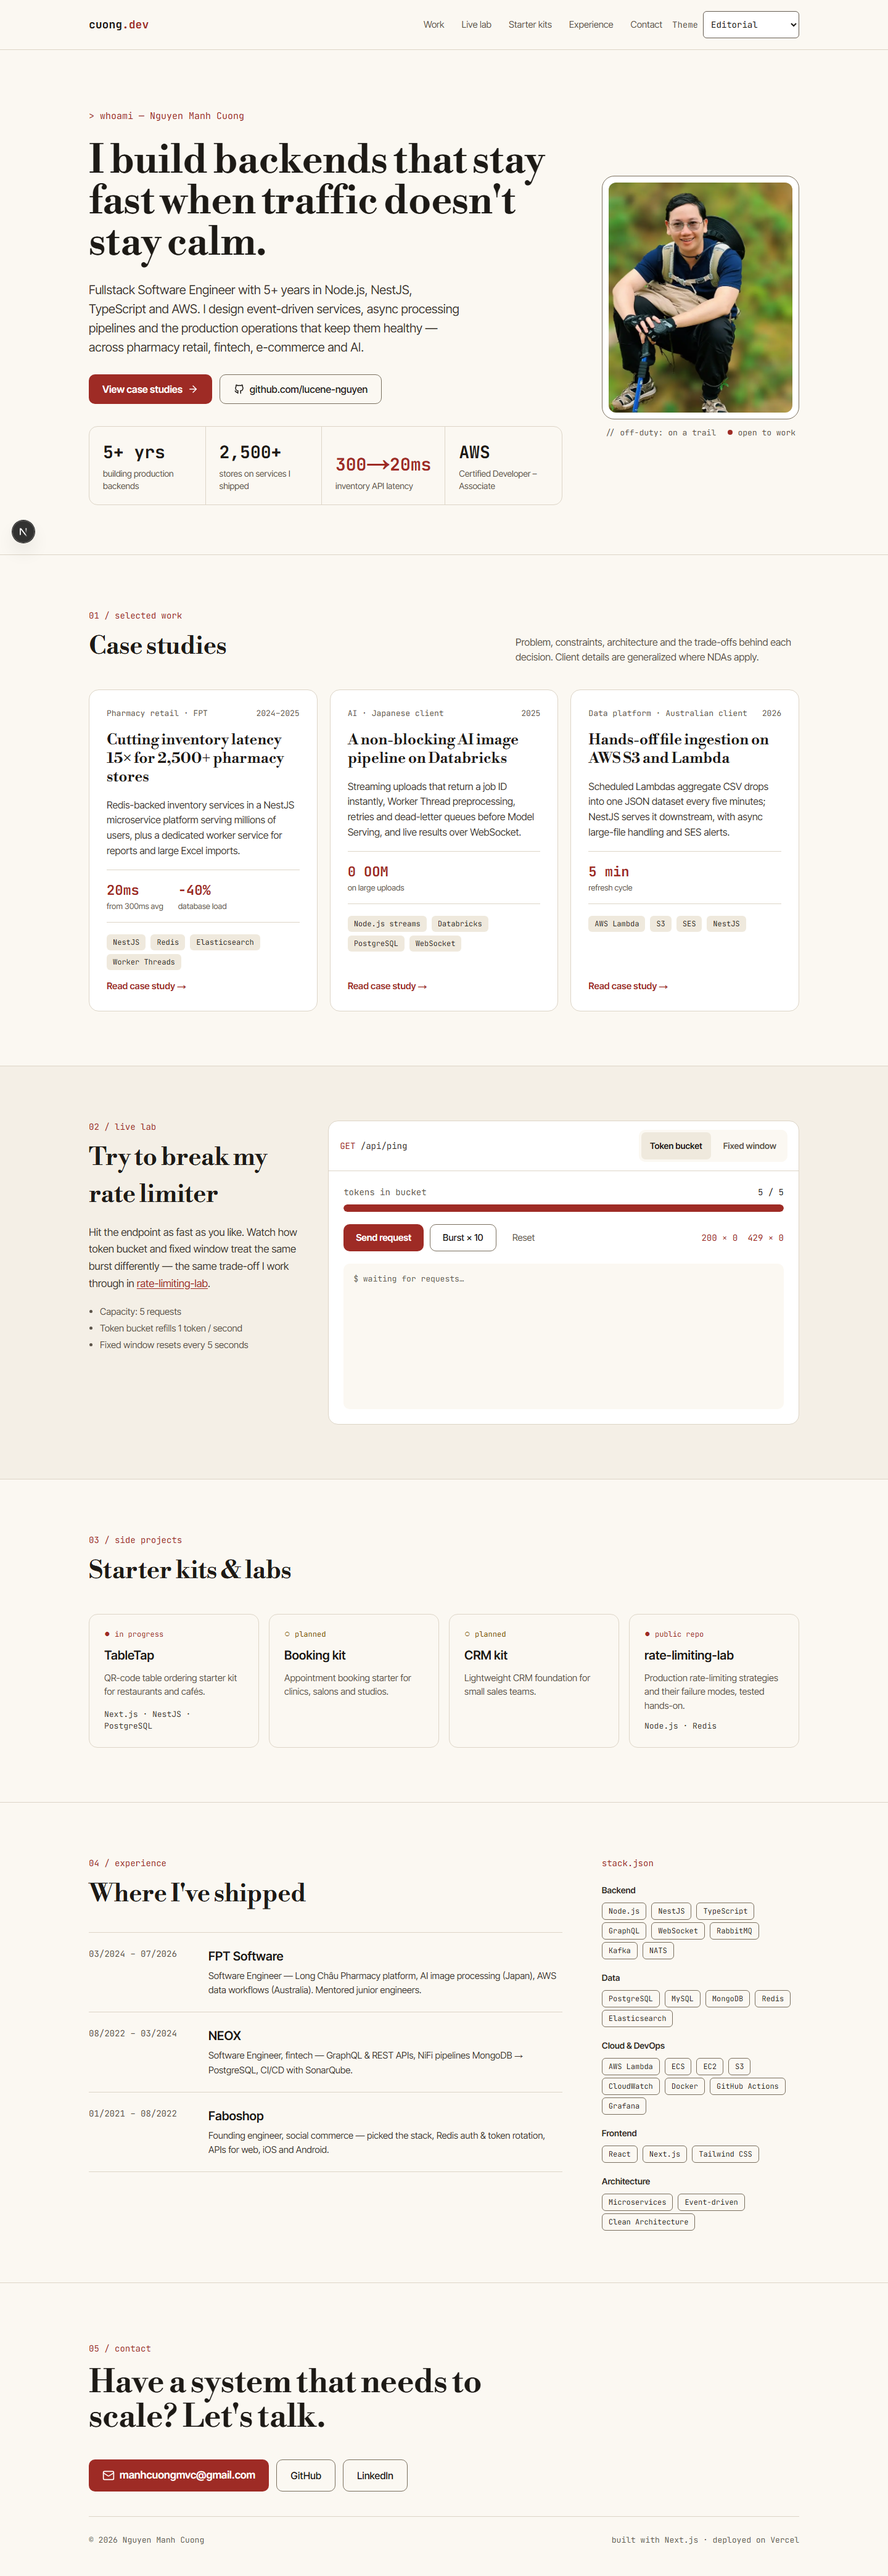
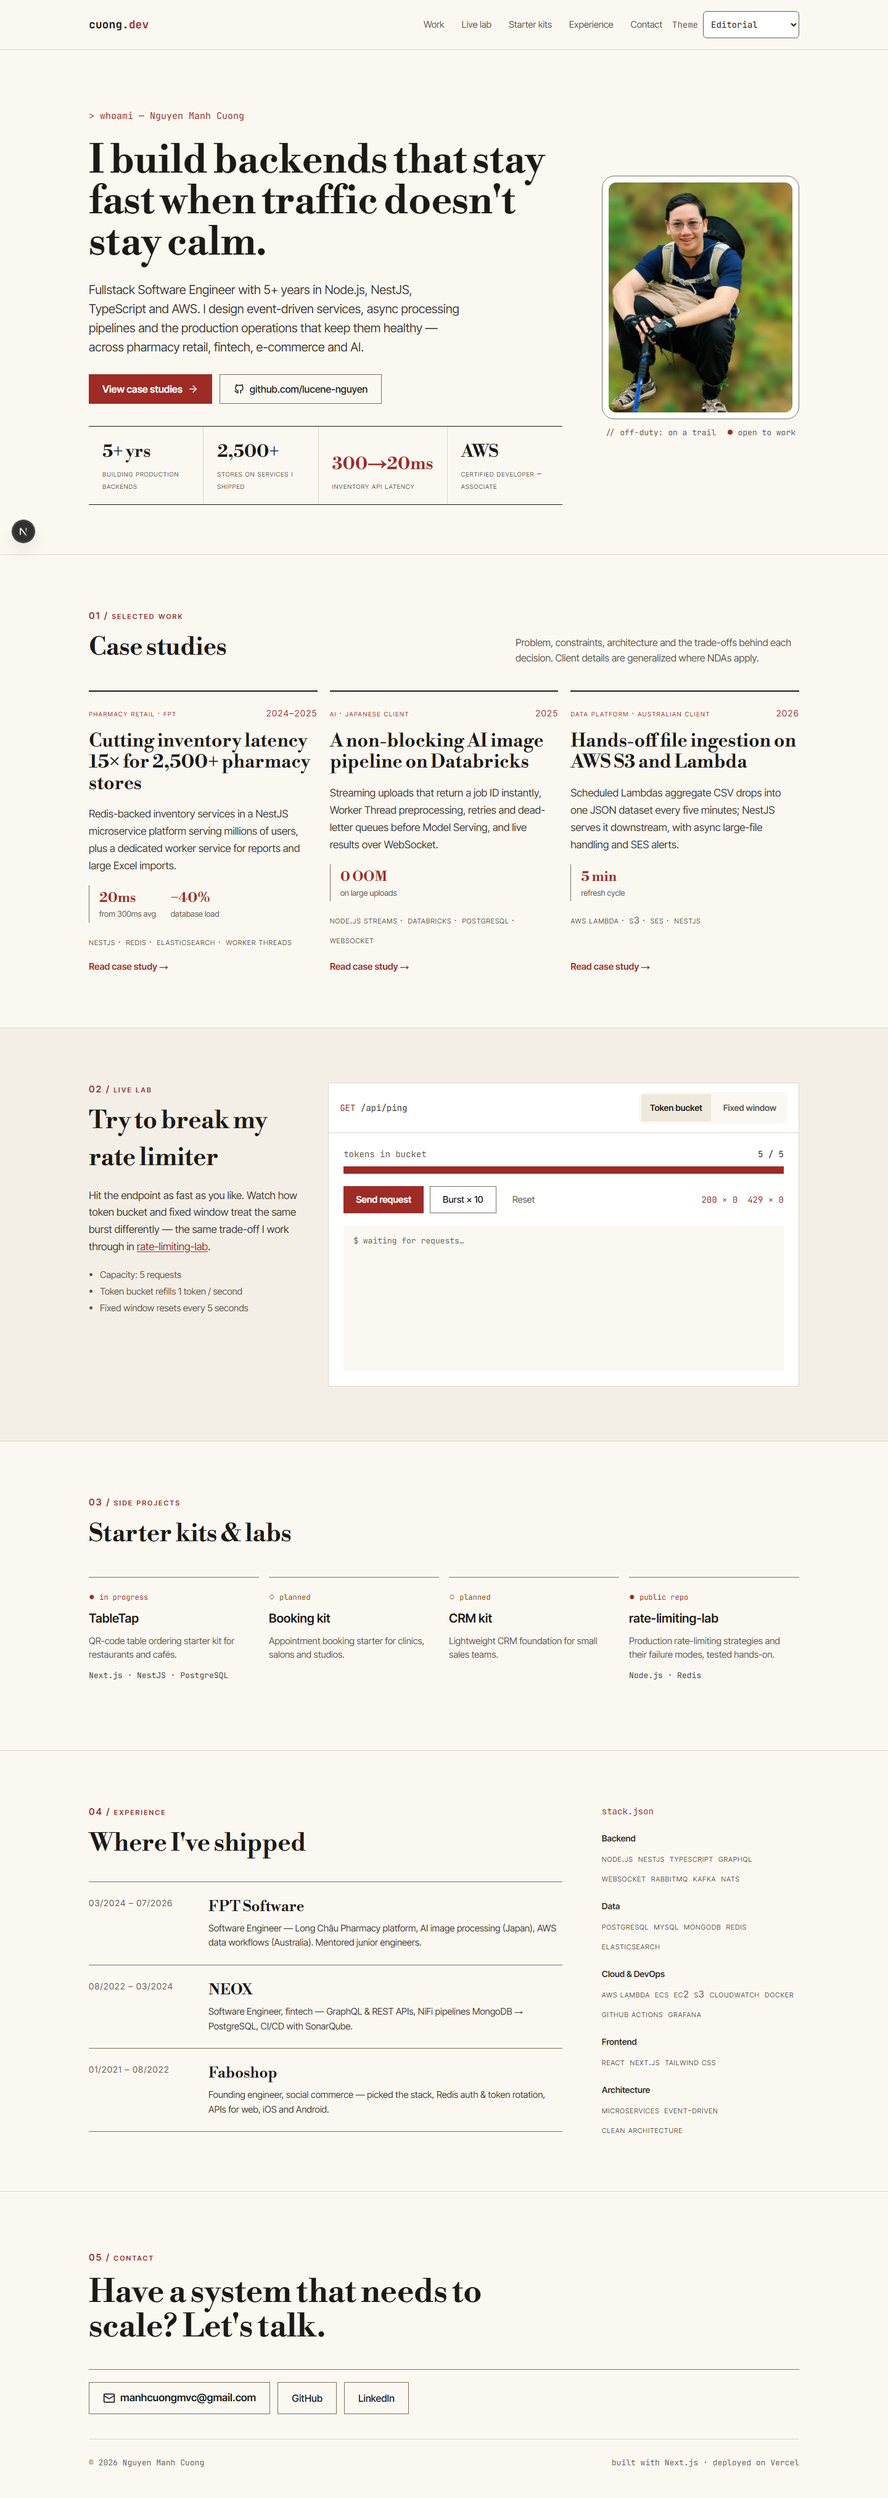
fix(ui): editorial review fixes - outlined sign-off, middot tags, scoped rules; screenshots; progress

diff --git a/themes/editorial/editorial.css b/themes/editorial/editorial.css
@@ -24,13 +24,14 @@
 }
 
 /* Case studies: feature teasers, no boxes. */
+/* Unlayered theme CSS beats Tailwind's layered utilities: no !important needed. */
 [data-theme="editorial"] [data-part="case-card"] {
-  padding: 24px 0 0 !important;
-  border: 0 !important;
-  border-top: 2px solid var(--text) !important;
-  border-radius: 0 !important;
-  background: transparent !important;
-  box-shadow: none !important;
+  padding: 24px 0 0;
+  border: 0;
+  border-top: 2px solid var(--text);
+  border-radius: 0;
+  background: transparent;
+  box-shadow: none;
 }
 [data-theme="editorial"] [data-part="case-meta"] {
   font-family: var(--font-sans);
@@ -111,12 +112,25 @@
 [data-theme="editorial"] [data-part="button"] {
   border-radius: 0;
 }
+/* Sign-off: understated outlined actions (the hero keeps its filled primary CTA). */
+[data-theme="editorial"] [data-part="contact-actions"] [data-part="button"] {
+  background: transparent;
+  color: var(--text);
+  border: 1px solid var(--border-strong);
+}
+[data-theme="editorial"] [data-part="contact-actions"] [data-part="button"]:hover {
+  background: var(--surface-2);
+}
+/* Tags read as an inline list: middot separators (decorative). */
+[data-theme="editorial"] [data-part="case-card"] ul li:not(:last-child) span::after {
+  content: " ·" / "";
+}
 [data-theme="editorial"] [data-part="kit"] > * {
   border: 0;
   border-top: 1px solid var(--border-strong);
   border-radius: 0;
   padding-inline: 0;
 }
-[data-theme="editorial"] #lab * {
-  border-radius: 0 !important;
+[data-theme="editorial"] #lab :is(.bg-surface, button, [role="meter"], [role="meter"] > div, ol) {
+  border-radius: 0;
 }

diff --git a/e2e/editorial.spec.ts b/e2e/editorial.spec.ts
@@ -113,4 +113,16 @@ test("shared sections are restyled as a magazine, not just recolored", async ({ 
     "font-variant-caps",
     "small-caps",
   );
+  await expect(page.locator('[data-part="role"] h3').first()).toHaveCSS(
+    "font-family",
+    /Libre Bodoni/,
+  );
+  await expect(page.locator('[data-part="contact-actions"] a[href^="mailto:"]')).toHaveCSS(
+    "background-color",
+    "rgba(0, 0, 0, 0)",
+  );
+  await expect(page.locator('[data-part="kit"] > *').first()).toHaveCSS(
+    "border-top-style",
+    "solid",
+  );
 });

diff --git a/design-system/portfolio-v3/pages/editorial.md b/design-system/portfolio-v3/pages/editorial.md
@@ -47,8 +47,9 @@
 
 **How the shared sections look** (magazine)
 - Eyebrows → small caps kicker in the accent, letter-spaced.
-- Case study cards → **feature teasers**: no box or shadow; hairline rule on top, small-caps kicker (meta), large serif headline, standfirst in body text, metrics as serif pull-figures, tags as a comma-like inline list in small caps, "Read case study" as an underlined text link.
+- Case study cards → **feature teasers**: no box or shadow; hairline rule on top, small-caps kicker (meta), large serif headline, standfirst in body text, metrics as serif pull-figures, tags as an inline small-caps list separated by middots, "Read case study" as an underlined text link.
 - Hero stats → **"by the numbers" band**: hairline rules above/below, serif numerals, small-caps captions, no boxes.
 - Experience → **masthead list**: serif company names, small-caps dates, hairline rules between roles; stack as plain small-caps lists.
-- Contact → **sign-off**: serif heading, actions as understated outlined buttons with square corners on a hairline rule.
+- Buttons: square corners everywhere; the hero keeps its filled primary CTA.
+- Contact → **sign-off**: serif heading, actions as understated outlined buttons on a hairline rule.
 - Starter kits → teaser cards without boxes, hairline top rule.

diff --git a/docs/ui-round-1.md b/docs/ui-round-1.md
@@ -12,7 +12,7 @@ Per theme (item 2): ui-ux-pro-max `--domain landing` + `--domain ux` → "## Lay
 | 2 blueprint | done | `fix/ui-blueprint` |
 | 2 pixel | done | `fix/ui-pixel` |
 | 2 cyberpunk | done | `fix/ui-cyberpunk` |
-| 2 editorial | todo | `fix/ui-editorial` |
+| 2 editorial | done | `fix/ui-editorial` |
 | 2 night-terminal | todo | `fix/ui-night-terminal` |
 | 2 dashboard | todo | `fix/ui-dashboard` |
 | 2 ide | todo | `fix/ui-ide` |
